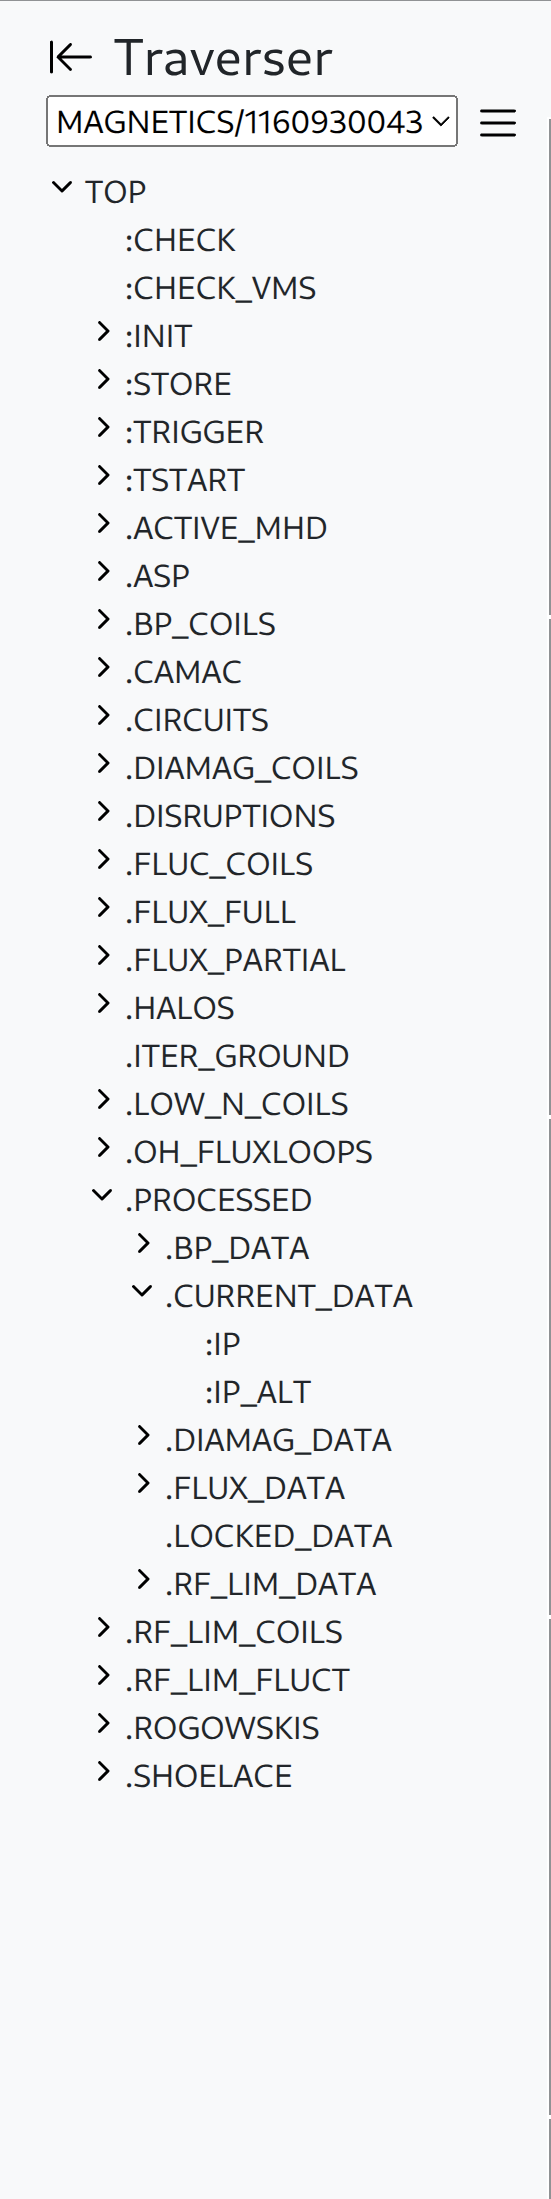
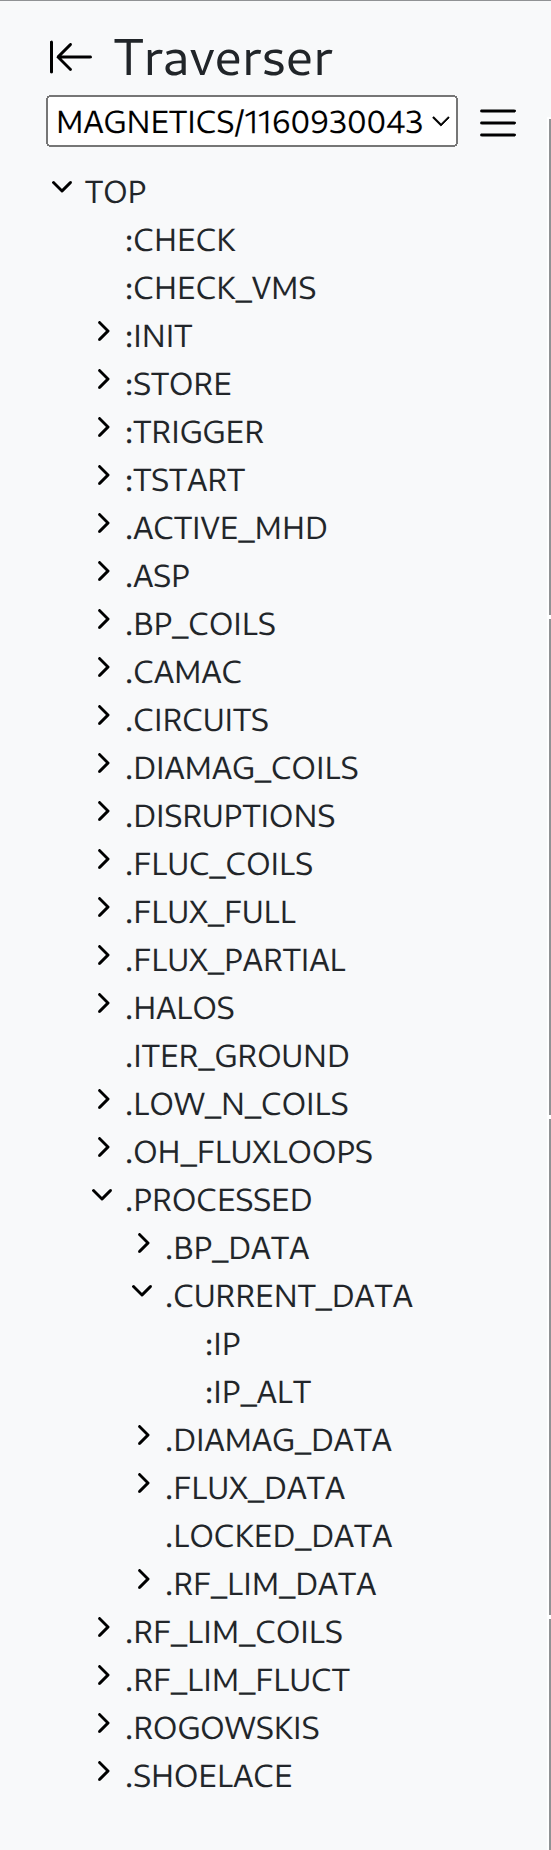
Formatting changes and corrections to web-tools page

Changed region(s): [[0.0926, 0.0, 0.833, 0.9859], [0.8639, 0.0308, 0.9256, 0.0924], [0.7096, 0.5854, 0.7405, 0.6162]]

diff --git a/docs/tools/web-tools.md b/docs/tools/web-tools.md
@@ -1,6 +1,18 @@
 
 # Web Tools
 
+<style>
+    img[alt=Export] { max-height: 250px; }
+    img[alt="open button"] { max-height: 250px; }
+    img[alt="traverser open form"] { max-height: 200px; }
+    img[alt="traverser with shot open"] { max-width: 200px; }
+    img[alt="reveal node"] { max-height: 150px; }
+    img[alt="traverser with shot expanded"] { max-width: 200px; }
+    img[alt="hover node"] { max-height: 500px; }
+    img[alt="node options"] { max-width: 500px; }
+
+</style>
+
 ## Installing / Running
 
 The web tools can be run from a terminal (akin to a Jupyter Notebook) or installed on a server for a whole site. See [GitHub](http://github.com/heidthecamp/mdsplus-web-tools) for instructions.  
@@ -24,11 +36,12 @@ For many projects you may want to use common fields (such as tree, shot or min/m
 ## Global Settings
 
 ![Global settings](assets/global-settings-form.png)
+<small>*Global settings form*</small>
 
 ### Settings
 
- **Title:** This will be evaluated and then set the page title. *This will be evaluated before and after all the panels (before: so any variables put into this field will propagate through the rest of the TDI expressions; after: so the results of the page can be displayed in the title).*  
-**Resample:** This controls the behavior of how expressions are evaluated and then returned. This adds a wrapper to expressions that will shrink the data being returned to just twice the number of pixels along the x axis taking the high and low values allowing maintained fidelity with a faster network call. *It is recommended to have this on, however if you notice anomalous behavior in your graphs it can be turned off. This can only be controlled for the page and not individual panels.*  
+ **Title:** This will be evaluated and then set the page title. This will be evaluated before and after all the panels (before: so any variables put into this field will propagate through the rest of the TDI expressions; after: so the results of the page can be displayed in the title).  
+**Resample:** This controls the behavior of how expressions are evaluated and then returned. This adds a wrapper to expressions that will shrink the data being returned to just twice the number of pixels along the x axis taking the high and low values allowing maintained fidelity with a faster network call. It is recommended to have this on, however if you notice anomalous behavior in your graphs it can be turned off. This can only be controlled for the page and not individual panels.    
 
 ### Global Panel Defaults
 
@@ -43,14 +56,23 @@ Note: TDI Variables in these values are evaluated during the evaluation of the t
 ## Panels
 
 A Panel can display one or more traces from different trees, shots, nodes, etc on the same plot. Panels can be resized by dragging the bottom right corner and moved to the desired width and height.  
+
 ![full width panel](assets/panel-full-width.png)  
+<small>*Full width panel*</small>  
+
 ![half width panel](assets/panel-half-width.png)  
+<small>*Half width panel*</small>  
+
 Panels can also be moved by dragging the white space in the panel header.  
 
-To modify the panel, open the ![Gear icon](assets/gear.svg) icon and select edit.  
+To modify the panel, open the ![Gear icon](assets/gear.svg) icon and select edit. This will open the panel edit form.   
+
 ![panel edit button](./assets/panel-gear-dropdown-edit.png)  
-This will open the panel edit form.  
+<small>*Settings dropdown*</small>  
+
 ![panel edit form](assets/panel-form.png)  
+<small>*Settings Form*</small>  
+
 From here you can modify features of the panel, such as the panel title and min/max height and width, as well as the individual [Traces](#traces).  
 
 Next to all the fields listed below you will see a checkbox. When checked, this will default the value to the [Global Defaults](#global-panel-defaults).  
@@ -86,32 +108,54 @@ Next to all the fields listed below you will see a checkbox. When checked, this 
 For quickly moving between nearby shots, the shot scrubber allows you to add or subtract one from the current shot number as defined in the [Global Trace Defaults](#global-trace-defaults). This can be very useful for looking at subsequent shots in a given day or run. This offset will not be saved, and will be reset to 0 when reloading.  
 
 ![Header with shot scrubbing](assets/header-shot-scrubbing.png)  
+<small>*Header with shot scubbing hovered*</small>  
 
 ## Saving/Loading
 
 The page is automatically saved periodically using the browser's local storage. To save a file off line go to the top right and select the ![Three bars](assets/three-bars.svg) menu and select export. This will save a file called `scope.json` to your downloads.  
+
 ![Export](assets/settings-dropdown-export.png)  
+<small>*Settings dropdown with export hovered*</small>  
 
 The scope can load exported files, as well as dwscope and jScope files (`.dat` and `.jscp`). When importing older files the scope does its best approximation of how the old files were configured.  
 
-## Sidebar Traverser
+## Traverser Sidebar
 
 To the left, you will find a Traverser that can explore trees and even create panels from nodes.  
 To open a tree click the dropdown and select `Open`, then enter the desired tree and shot.  
+
 ![open button](assets/traverser-dropdown-open.png)  
+<small>*Traverser dropdown*</small>  
+
 ![traverser open form](assets/traverser-open-shot-form.png)  
+<small>*Open traverser form*</small>  
+
 ![traverser with shot open](assets/traverser-trophy-shot-collapsed.png)  
+<small>*Opened traverser*</small>  
+
 
 You can search the tree manually, or if you know the node you are looking for you can use the **Reveal Node** function.  
+
 ![reveal node](assets/traverser-find-node.png)  
+<small>*Reveal node form*</small>  
+
 ![traverser with shot expanded](assets/traverser-trophy-shot-expand-ip.png)  
+<small>*Open traverser expanded to shearched node*</small>  
 
 You can preview a node's data by hovering.  
+
 ![hover node](assets/traverser-trophy-shot-hover-ip.png)  
+<small>*Traverser with node hovered*</small>  
 
 Or you can do a deeper dive into its data/metadata by clicking the ![Gear icon](assets/gear.svg) and selecting display.  
+
 ![node options](assets/traverser-torphy-shot-ip-node-options.png)  
+<small>*Node options*</small>  
+
+
 ![node data](assets/traverser-trophy-shot-ip-data.png)  
+<small>*Node data display*</small>  
+
 
 By selecting **Add to Dashboard** a new panel will be generated with the current tree, shot, and node as the Y Axis.  
 
@@ -121,11 +165,11 @@ While striving to provide the best experience we need to balance that with the r
 
 ### Planned feature upgrades:
 
-Traverser Page  
-Third party database support  
-Better mobile support  
+- Traverser Page  
+- Third party database support  
+- Better mobile support  
 
 ### Known bugs
 
-Certain page widths can cause elements to overlap (ie the scope and the side bar traverser) (work around: expand browser width)  
-Occasionally when resizing a panel the plot does not correctly resize (workaround: reloading the page)  
+- Certain page widths can cause elements to overlap (ie the scope and the side bar traverser) (work around: expand browser width)  
+- Occasionally when resizing a panel the plot does not correctly resize (workaround: reloading the page)  
